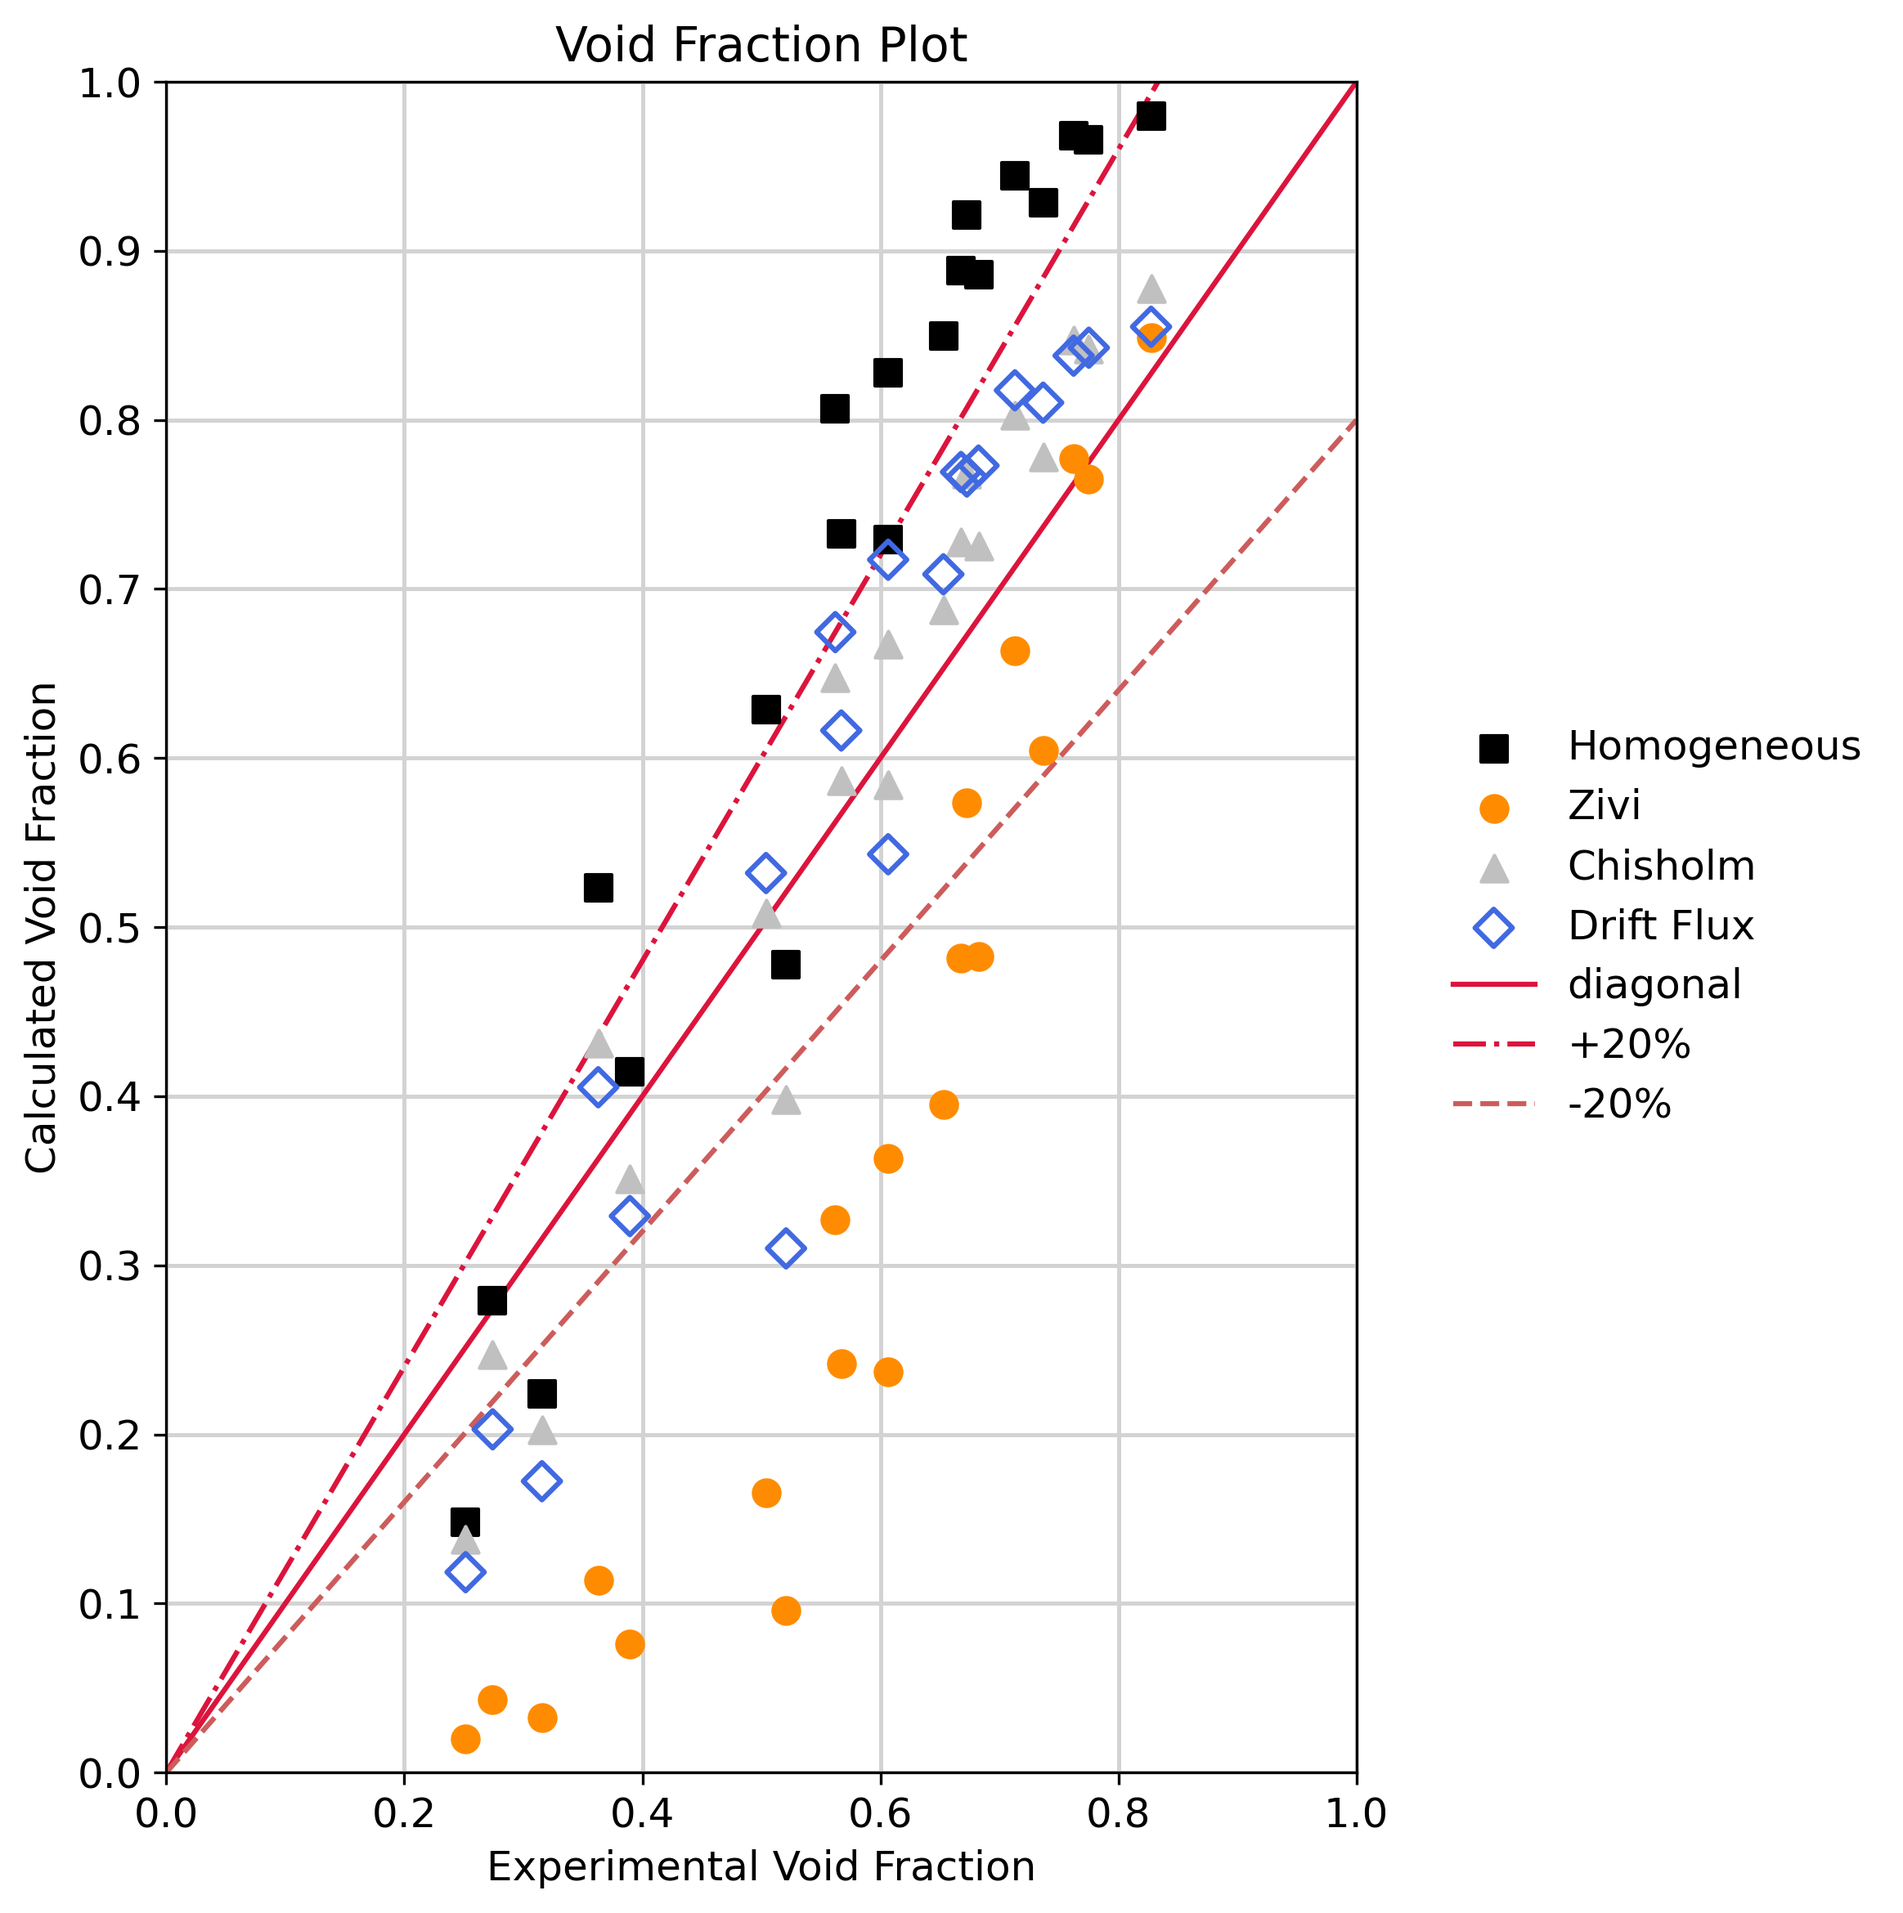
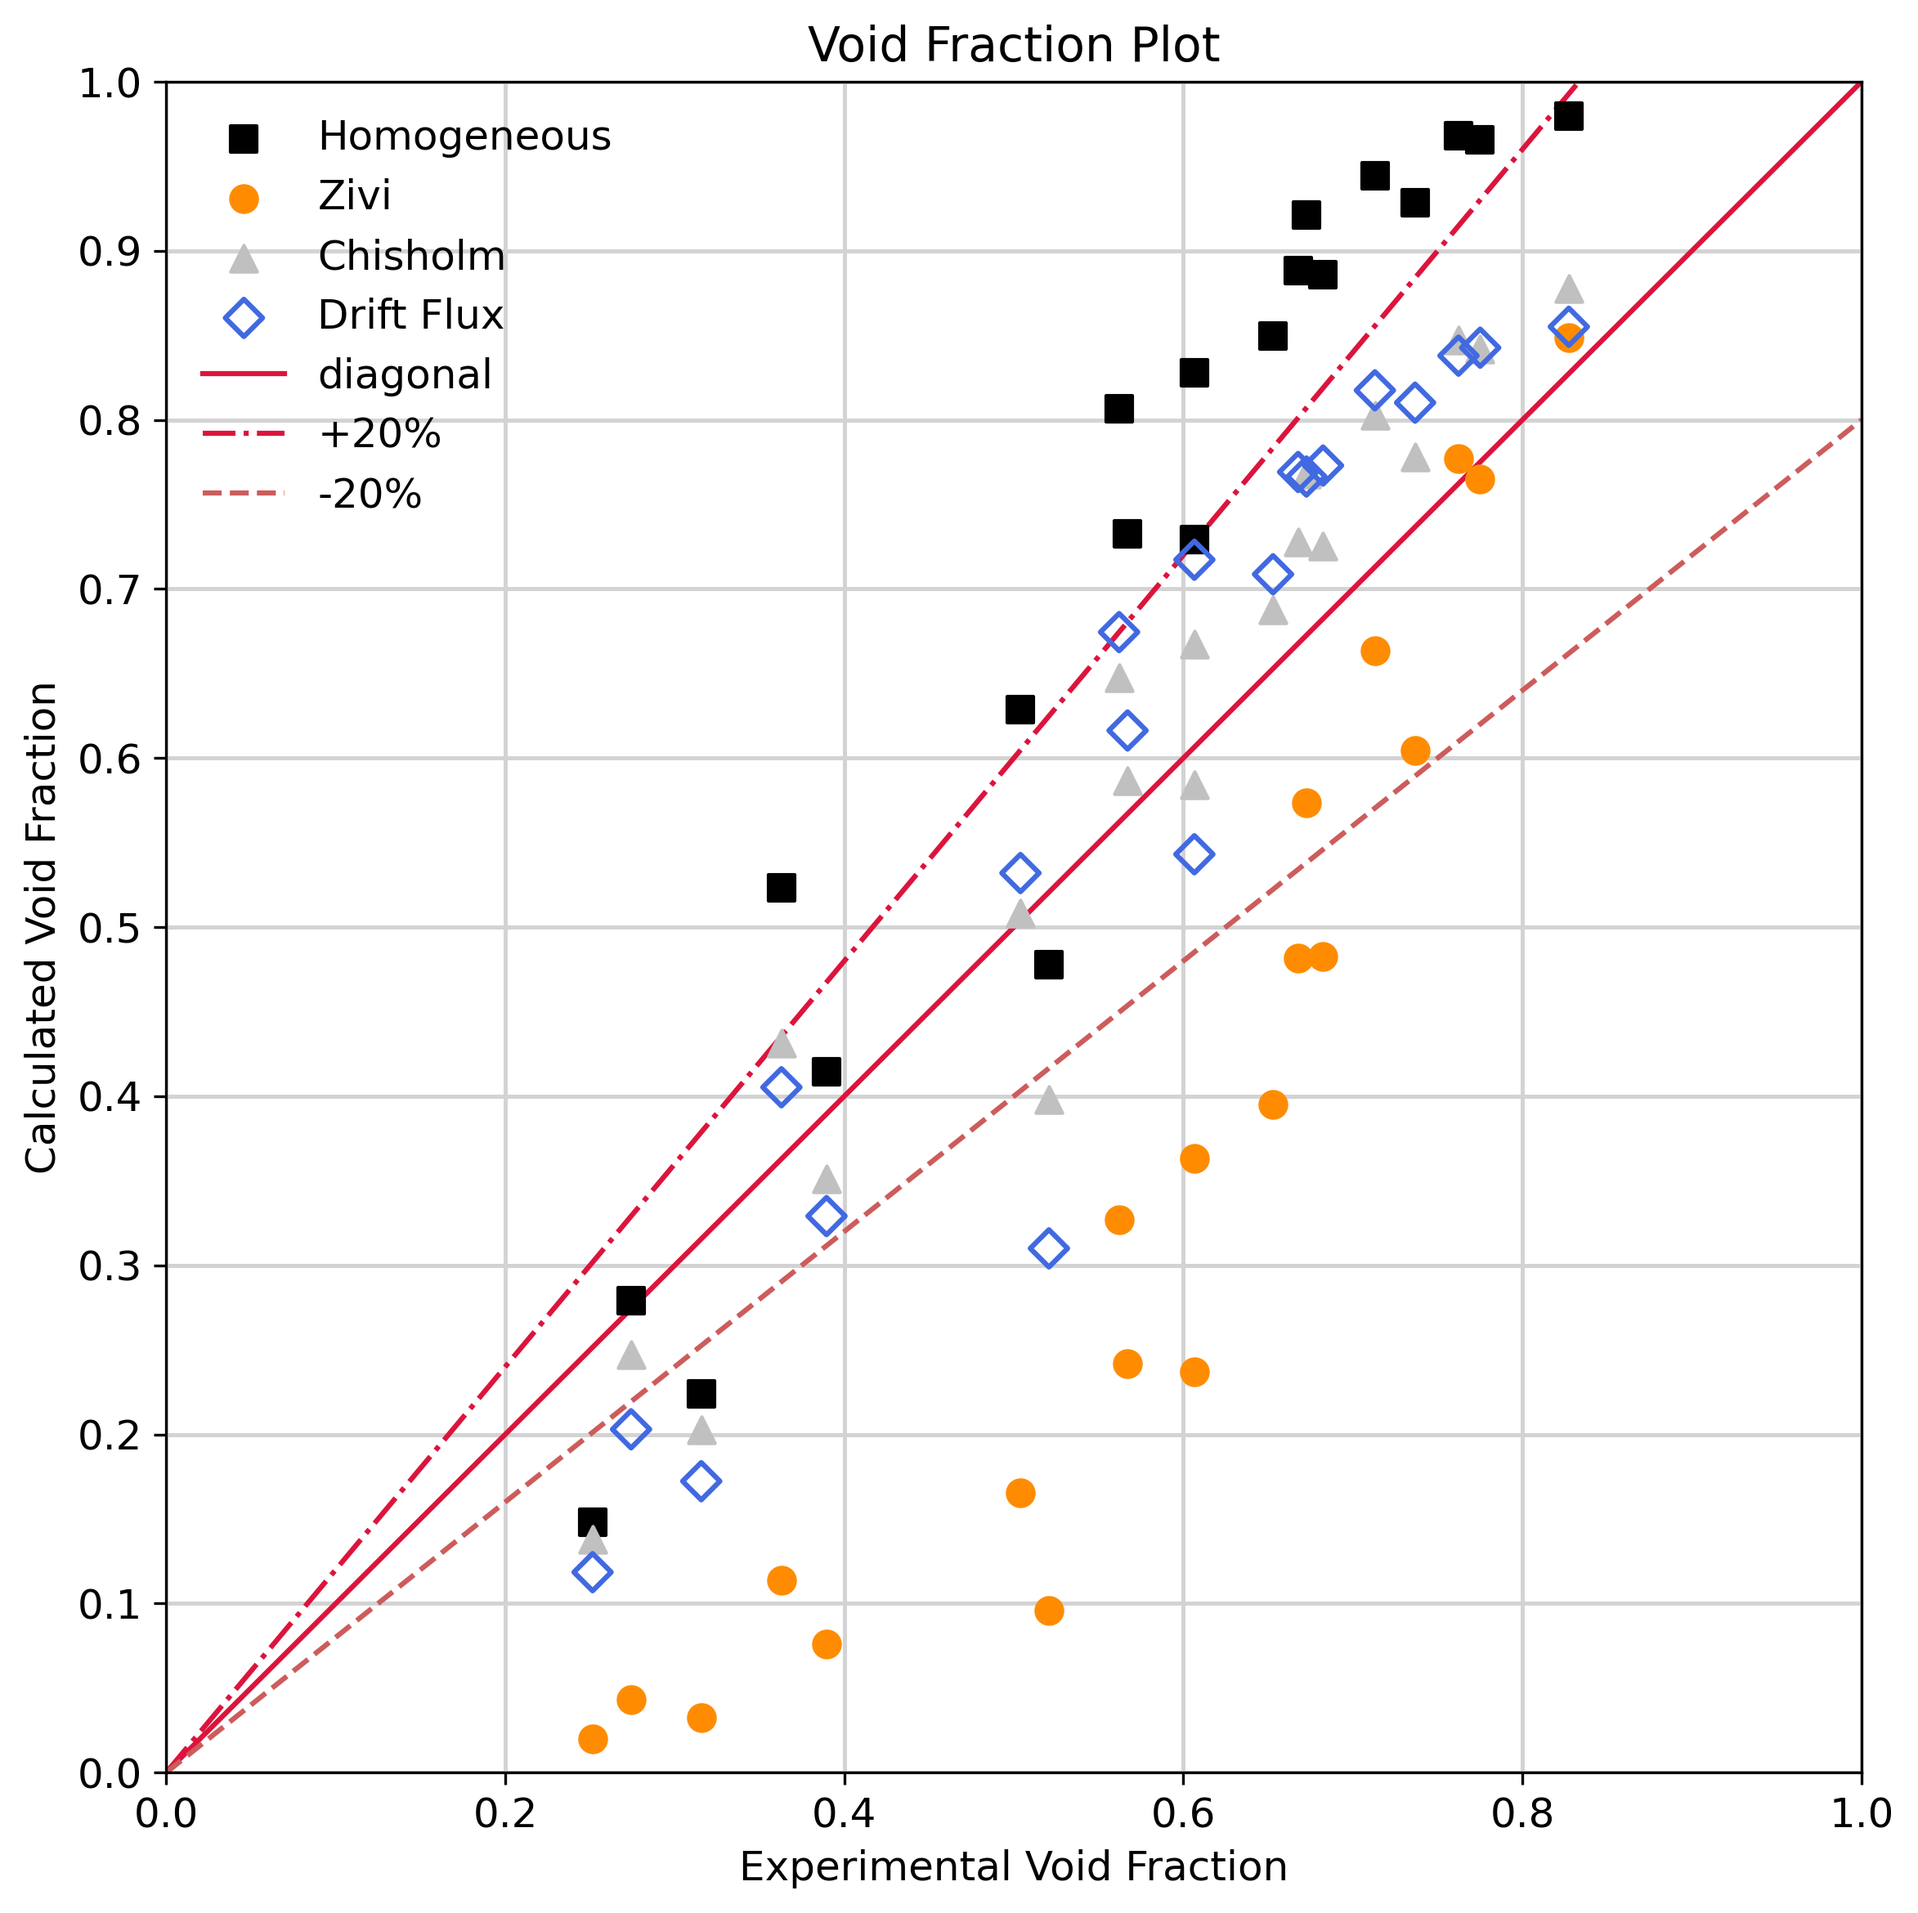
punto 8 da correggere

diff --git a/assignment2/assignment2.py b/assignment2/assignment2.py
@@ -336,9 +336,18 @@ def thermal_expansion(D_Ta, T_mean, T_amb, component):
                 return 5.62e-6 + 3.162e-9*T # 1/°C 
             else:
                 raise ValueError("Componente sconosciuto")
-        return D_Ta * (1 + alpha(T_mean) * (T_mean - T_amb))
+        return D_Ta*alpha(T_mean - T_amb)
 
-def gap_conductance():
+def elastic_deformation(r_ci, r_co, T_c, p_i, p_e):
+    gamma = r_co/r_ci
+    nu = 0.43
+    def young_modulus(T):
+        return 1.148e11 - 5.99e7 * T  # Pa (modulo di Young in funzione della temperatura)
+    E = young_modulus(T_c)
+    delta_r_ci = (r_ci / (E * (gamma**2 - 1))) * (p_i * ((1 - nu) + (1 + nu) * gamma**2) - 2 * gamma**2 * p_e)
+    return delta_r_ci
+
+def gap_conductance(delta0, D_pellet, D_in_clad , D_out_clad, T_amb, T_c_avg, p_i, p_e, T_fuel_surface):
     # total gap conduction is the sum of radiative, contact and gap components
     # gap component: 
     def k_gas(T):
@@ -347,9 +356,71 @@ def gap_conductance():
         return A * T**N  # W/mK
     
     def h_gap(k_gas, delta):
-        det = 2.54e-5  # m 
-        return k_gas / (det + delta)  # W/m^2K
+        den = 2.54e-5  # m 
+        return k_gas / (den + delta)  # W/m^2K
     
+
+    delta_f = thermal_expansion(D_pellet, T_fuel_surface, T_amb, 'fuel')
+    delta_cl =  thermal_expansion(D_in_clad, T_c_avg, T_amb, 'cladding')
+    # p_e è la p_sys, per ora p_i ipotizzata
+    delta_def = elastic_deformation(D_in_clad/2, D_out_clad/2, T_c_avg, p_i, p_e)
+
+    delta = delta0 - (delta_f + delta_cl + delta_def)
+
+    T_He_avg = T_c_avg + T_fuel_surface / 2  # stima della temperatura media del gas nel gap
+    return h_gap(k_gas(T_He_avg), delta), delta 
+
+def h_rad(T_f_S, T_ci):
+    """
+    Calcola il coefficiente di scambio termico radiativo.
+    Le temperature devono essere in Kelvin.
+    """
+    sigma = 5.67e-8  # W/(m^2 K^4), costante di Stefan-Boltzmann
+    # Se le temperature sono uguali, il limite è 4 * sigma * T^3
+    if np.all(T_f_S == T_ci):
+        return 4 * sigma * T_f_S**3
+    return sigma * (T_f_S**4 - T_ci**4) / (T_f_S - T_ci)
+
+def calculate_T_pellet_surface_iterative(T_ci_profile, q_vol_profile, A_fuel, D_pellet, D_in_clad, D_out_clad, T_amb, p_sys, delta0):
+    # Inizializzo la temperatura del pellet (ipotesi in Celsius)
+    T_f_S = np.max(T_ci_profile)
+    p_i = 3e6  # Pa (Pressione interna ipotizzata)
+    
+    tol = 1e-3
+    max_iter = 100
+    
+    # Inizializza array per risultati
+    h_tot = 0
+    delta_out = 0
+    T_c_avg = np.mean(T_ci_profile)
+    
+    for _ in range(max_iter):
+        T_f_S_old = T_f_S.copy()
+        
+        # 1. Calcolo gap conductance con T_f_S_old (vettorizzato o punto per punto a seconda dell'implementazione delle sub-funzioni)
+        # Qui passiamo l'intero profilo
+        h_gap_val, delta = gap_conductance(delta0, D_pellet, D_in_clad, D_out_clad, T_amb, T_c_avg, p_i, p_sys, T_f_S_old)
+        
+        # 2. Calcolo radiative heat transfer coeff (temperature in Kelvin)
+        h_rad_val = h_rad(T_f_S_old + 273.15, T_c_avg + 273.15)
+        
+        # 3. Gap conductance totale
+        h_tot = h_gap_val + h_rad_val
+        
+        # 4. Calcolo nuova temperatura della superficie del pellet
+        T_f_S_new = T_pellet_surface_profile(T_ci_profile, q_vol_profile, A_fuel, D_pellet, h_tot)
+        
+        # 5. Controllo convergenza
+        if np.max(np.abs(T_f_S_new - T_f_S_old)) < tol:
+            T_f_S = T_f_S_new
+            delta_out = delta
+            break
+            
+        T_f_S = T_f_S_new
+        delta_out = delta
+        
+    return T_f_S, h_tot, delta_out
+
     
     
 
@@ -430,10 +501,10 @@ if __name__ == "__main__":
     T_ci = T_inner_cladding_profile(T_co, qv_profile, A_fuel, D_in_clad, D_out_clad)
 
     # 8) Pellet surface temperature
-    T_fuel_avg_guess = max(T_ci)
-    T_c_avg = np.mean(T_ci)
+
     T_amb = 25  # °C (temperatura ambiente per il calcolo dell'espansione termica)
-    
+    T_f_S, h_tot, delta_out = calculate_T_pellet_surface_iterative(T_ci, qv_profile, A_fuel, D_pellet, D_in_clad, D_out_clad, T_amb, p_sys, s_clad)
+    print(delta_out)
 
 
 
@@ -541,5 +612,15 @@ if __name__ == "__main__":
     plt.legend()
     plt.grid()
     plt.savefig(os.path.join(plot_dir, '7_inner_cladding_temperature.png'))
+    plt.close()
+
+    plt.figure(figsize=(10, 6))
+    plt.plot(T_f_S, z, label='T_surface_fuel (°C)', color='red')
+    plt.title('Pellet Surface Temperature Profile along the z-axis')
+    plt.ylabel('z (m)')
+    plt.xlabel('T_surface_fuel (°C)')
+    plt.legend()
+    plt.grid()
+    plt.savefig(os.path.join(plot_dir, '8_fuel_surface_temperature.png'))
     plt.close()
 

diff --git a/lab/comparison_plot.py b/lab/comparison_plot.py
@@ -43,8 +43,8 @@ plt.xlabel('Experimental Void Fraction', fontsize=12)
 plt.ylabel('Calculated Void Fraction', fontsize=12)
 plt.title('Void Fraction Plot', fontsize=14)
 
-# Aggiungo la legenda fuori dal grafico
-plt.legend(bbox_to_anchor=(1.05, 0.5), loc='center left', frameon=False)
+# Aggiungo la legenda nell'angolo in alto a sinistra
+plt.legend(loc='upper left', frameon=False)
 
 # Aggiusto i margini e salvo/mostro l'immagine
 plt.tight_layout()
@@ -86,8 +86,8 @@ plt.xlabel('Experimental pressure drop (Pa)', fontsize=12)
 plt.ylabel('Calculated pressure drop (Pa)', fontsize=12)
 plt.title('Total Pressure Drop Plot', fontsize=14)
 
-# Aggiungo la legenda fuori dal grafico
-plt.legend(bbox_to_anchor=(1.05, 0.5), loc='center left', frameon=False)
+# Aggiungo la legenda nell'angolo in alto a sinistra
+plt.legend(loc='upper left', frameon=False)
 
 # Aggiusto i margini e salvo/mostro l'immagine
 plt.tight_layout()
